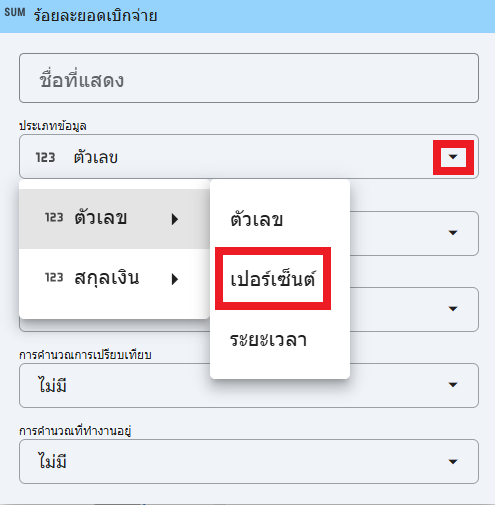
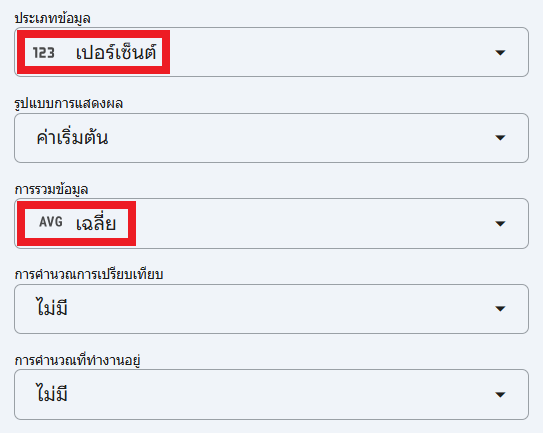
add missing step in workshop 3

diff --git a/docs/workshop-3.md b/docs/workshop-3.md
@@ -107,7 +107,7 @@
 
     ![ตั้งค่าเมตริก](img/ws3-s4-5.png){ width="800" }
 
-6. ที่หัวข้อ **ประเภทข้อมูล (Data type)** เลือก **ตัวเลข (Numeric) > เปอร์เซ็นต์ (Percent)**
+6. แก้ไข **ประเภทข้อมูล (Data type)** เป็น **ตัวเลข (Numeric) > เปอร์เซ็นต์ (Percent)** และแก้ไข **การรวมข้อมูล (Aggregation)** เป็น **เฉลี่ย (Average)**
 
     ![เปลี่ยนประเภทข้อมูล](img/ws3-s4-6.png){ width="400" }
 
